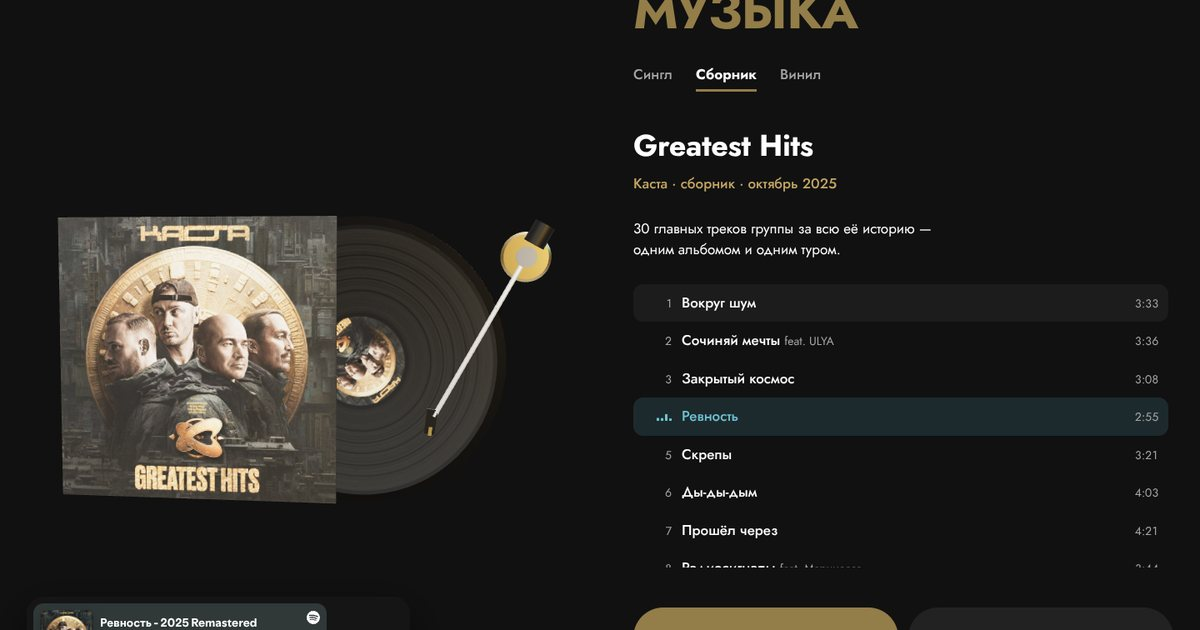
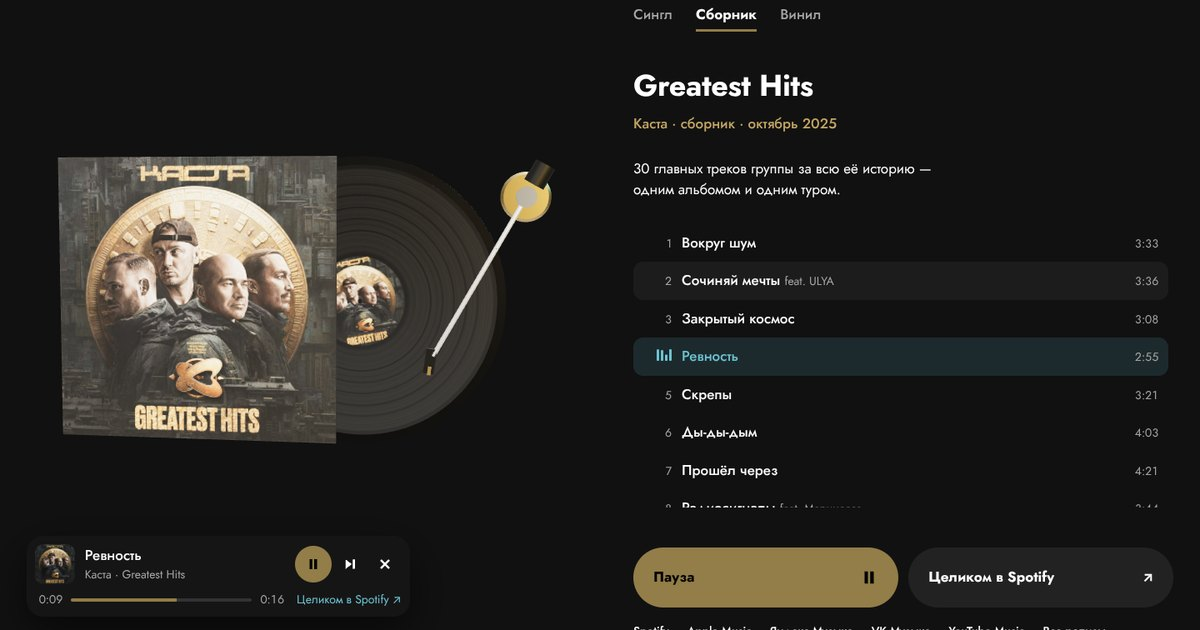
Kasta v11: our turntable plays, Spotify's player stays hidden underneath
The Spotify embed now sits invisible behind our own now-playing bar
(cover, track, pause, next, seek, 'Full track on Spotify' link). It
stays on screen at zero opacity, because Chrome freezes cross-origin
frames moved off screen. If the browser refuses to start sound from
outside the embed, the embed shows itself with a one-tap hint.

Claude-Session: https://claude.ai/code/session_01MbgX5tyqgxQHiJMMjEK7p4

diff --git a/concepts/kasta/v11/assets/js/site.js b/concepts/kasta/v11/assets/js/site.js
@@ -1,5 +1,5 @@
 /* Каста · концепт v11 — интерфейс и проигрыватель. 3D живёт в scenes.js.
-   Звук пластинок — официальный плеер Spotify (Embed IFrame API); в tracks.js только ID треков. */
+   Звук пластинок — плеер Spotify (Embed IFrame API), спрятанный за нашим проигрывателем; в tracks.js только ID треков. */
 (() => {
   const $ = (s, r = document) => r.querySelector(s);
   const $$ = (s, r = document) => [...r.querySelectorAll(s)];
@@ -211,10 +211,11 @@
     });
   });
 
-  /* ---------- the record player: the sound comes from the official Spotify player ---------- */
+  /* ---------- the record player: our turntable on top, Spotify's player underneath ---------- */
   // There are no audio files or audio links on this site: tracks.js holds only Spotify track IDs,
   // and the music streams inside Spotify's own embed (whole songs for people signed in to Spotify,
-  // previews for everyone else). Our turntable, tracklist and buttons drive it through the Embed IFrame API.
+  // previews for everyone else). The embed stays invisible; our turntable, tracklist and bar drive it
+  // through the Embed IFrame API. It shows itself only if the browser insists on a tap inside it.
   const DATA = window.__kastaTracks || [];
   const RKEYS = ['mama', 'greatest', 'nzr'];
   const relData = i => DATA.find(d => d.key === RKEYS[i]);
@@ -222,12 +223,14 @@
     ru: { put: 'Поставить пластинку', pause: 'Пауза', resume: 'Продолжить', again: 'Ещё раз', open: 'Открыть в Spotify',
           hero: 'Включить Greatest Hits', heroOn: 'Пауза', heroResume: 'Продолжить',
           vinyl: 'Поставить пластинку', vinylOn: 'Пауза или продолжить',
-          note: 'Звук играет официальный плеер Spotify: если вы вошли в Spotify, песни звучат целиком, если нет — фрагментами.',
+          note: 'Музыка идёт через Spotify: если вы вошли в Spotify в этом браузере, песни звучат целиком, если нет — короткими фрагментами.',
+          src: 'Spotify', srcFull: 'Целиком в Spotify', play: 'Играть', of: 'из', engine: 'Плеер Spotify',
           failed: 'Плеер Spotify не загрузился (его может блокировать расширение браузера). Кнопка откроет альбом в Spotify.' },
     en: { put: 'Put the record on', pause: 'Pause', resume: 'Resume', again: 'Play again', open: 'Open in Spotify',
           hero: 'Play Greatest Hits', heroOn: 'Pause', heroResume: 'Resume',
           vinyl: 'Put the record on', vinylOn: 'Pause or resume',
-          note: 'The sound comes from the official Spotify player: whole songs if you are signed in to Spotify, previews if not.',
+          note: 'The music comes through Spotify: whole songs if you are signed in to Spotify in this browser, short previews if not.',
+          src: 'Spotify', srcFull: 'Full track on Spotify', play: 'Play', of: 'of', engine: 'Spotify player',
           failed: 'The Spotify player did not load (a browser extension may block it). The button opens the album in Spotify.' },
   };
   const p = () => P[lang];
@@ -235,7 +238,15 @@
   const np = $('#np');
   let ctl = null, ctlP = null, spFailed = false, albumDone = false, npClosed = false;
   let pos = 0, dur = 0, posAt = 0, endedUri = '', watchdog = 0, wantPlay = 0, readyTimer = 0;
-  let expectUri = '', startedUri = '', tries = 0, checkTimer = 0;
+  let expectUri = '', heardUri = '', tries = 0, checkTimer = 0, isPreview = false, reveal = false, seeking = false;
+  let lastUri = '', lastPaused = true, lastAt = 0, playSentAt = 0;
+  const engine = $('.np-engine', np);
+  // the browser may refuse to start sound from outside the Spotify player (Safari can): then it shows itself for one tap
+  const setReveal = on => {
+    if (reveal === on) return;
+    reveal = on; engine.inert = !on;
+    np.classList.toggle('is-reveal', on);
+  };
 
   const loadSpotify = () => {
     if (ctlP) return ctlP;
@@ -247,8 +258,9 @@
           ctl = c;
           c.addListener('playback_update', onUpdate);
           // a freshly loaded track says "ready"; only then does play() stick, even after quick clicks
-          c.addListener('ready', () => { if (wantPlay) { wantPlay = 0; clearTimeout(readyTimer); c.play(); } });
-          c.addListener('playback_started', e => { startedUri = (e && e.data && e.data.playingURI) || startedUri; });
+          c.addListener('ready', () => { if (wantPlay) { wantPlay = 0; clearTimeout(readyTimer); c.play(); playSentAt = performance.now(); } });
+          const f = $('iframe', engine);
+          if (f) f.title = p().engine;
           resolve(c);
         });
       };
@@ -268,6 +280,9 @@
     const d = e.data || {};
     // late frames from the track we just left must not move the needle or end the album
     if (expectUri && d.playingURI && d.playingURI !== expectUri) return;
+    // Spotify says "started" even when the browser holds the sound back, so only a moving position counts as heard
+    if (d.playingURI) { lastUri = d.playingURI; lastPaused = !!d.isPaused; lastAt = performance.now(); }
+    if (d.playingURI && !d.isPaused && d.position > 0) { heardUri = d.playingURI; setReveal(false); }
     pos = (d.position || 0) / 1000; dur = (d.duration || 0) / 1000; posAt = performance.now();
     if (dur > 0) clearTimeout(watchdog);
     // the embed holds the last frame as "playing" when a track runs out: that is the end
@@ -275,9 +290,13 @@
       if (endedUri !== d.playingURI) { endedUri = d.playingURI; onEnded(); }
       return;
     }
+    // logged out, Spotify plays a short preview: the bar says so and points to the whole track
+    const tr = relData(A.r) && relData(A.r).tracks[A.k];
+    const pv = dur > 0 && !!tr && dur < tr.dur - 5;
     const was = A.playing;
     A.playing = !d.isPaused;
-    if (A.playing !== was) paintPlayer();
+    if (A.playing !== was || pv !== isPreview) { isPreview = pv; paintPlayer(); }
+    else paintTime();
     if (A.playing) startLevels();
   }
   function onEnded() {
@@ -292,7 +311,7 @@
     const d = relData(r);
     if (!d || !d.tracks[k]) return;
     if (spFailed) { window.open(d.url, '_blank', 'noopener'); return; }
-    A.r = r; A.k = k; albumDone = false; npClosed = false; endedUri = ''; pos = 0; dur = 0; posAt = performance.now();
+    A.r = r; A.k = k; albumDone = false; npClosed = false; endedUri = ''; pos = 0; dur = 0; posAt = performance.now(); playSentAt = 0;
     A.playing = true;                       // the needle drops while Spotify buffers
     paintPlayer(); startLevels();
     const uri = d.tracks[k].uri;
@@ -300,21 +319,25 @@
       wantPlay = 1;
       c.loadUri(uri);
       clearTimeout(readyTimer);
-      readyTimer = setTimeout(() => { if (wantPlay) { wantPlay = 0; c.play(); } }, 1500);
+      readyTimer = setTimeout(() => { if (wantPlay) { wantPlay = 0; c.play(); playSentAt = performance.now(); } }, 1500);
     };
-    // a load that lands while the previous track is still buffering can be dropped by the embed: try again
+    let polls = 0;
     const check = c => {
       clearTimeout(checkTimer);
       checkTimer = setTimeout(() => {
-        if (expectUri !== uri || startedUri === uri) return;
-        if (++tries > 3) { A.playing = false; paintPlayer(); return; }
-        load(c); check(c);
+        if (expectUri !== uri || heardUri === uri || ++polls > 6) return;
+        // we asked to play and Spotify answered "paused": the browser wants a tap inside its player, so show it
+        if (lastUri === uri && lastPaused && playSentAt && lastAt > playSentAt + 300) { setReveal(true); A.playing = false; paintPlayer(); return; }
+        // a load that lands while the previous track is still buffering can be dropped by the embed: send it again
+        if (lastUri !== uri && ++tries <= 3) load(c);
+        check(c);
       }, 3500);
     };
     const go = c => { expectUri = uri; tries = 0; load(c); check(c); };
     if (ctl) go(ctl); else loadSpotify().then(go).catch(() => {});
     clearTimeout(watchdog);
-    watchdog = setTimeout(() => { if (A.r === r && A.k === k && startedUri !== uri) { A.playing = false; paintPlayer(); } }, 18000);
+    // still silent: hand over Spotify's own controls rather than leave a dead button
+    watchdog = setTimeout(() => { if (A.r === r && A.k === k && heardUri !== uri) { setReveal(true); A.playing = false; paintPlayer(); } }, 18000);
   }
   const nextTrack = () => { if (A.r >= 0) playAt(A.r, (A.k + 1) % relData(A.r).tracks.length); };
   const toggleCurrent = () => {
@@ -327,6 +350,30 @@
   };
   const toggle = () => { if (A.r !== rel || A.r < 0) playAt(rel, 0); else toggleCurrent(); };
 
+  // the position slider in the bar: the needle's place in the track, and a way to move it
+  const seekEl = $('.js-np-seek'), posLbl = $('.js-np-pos'), durLbl = $('.js-np-dur');
+  const fmtT = sec => { const t = Math.max(0, Math.floor(sec)); return `${Math.floor(t / 60)}:${String(t % 60).padStart(2, '0')}`; };
+  const curTrack = () => (A.r >= 0 && relData(A.r) ? relData(A.r).tracks[A.k] : null);
+  function paintTime() {
+    const tr = curTrack();
+    // once we know Spotify plays previews here, wait for its real length instead of showing the album one
+    const D = dur || (tr && !isPreview ? tr.dur : 0);
+    const t = seeking ? +seekEl.value : Math.min(D, A.progress * D);
+    if (+seekEl.max !== D && D) seekEl.max = D;
+    if (!seeking) seekEl.value = t;
+    seekEl.style.setProperty('--p', (D ? (t / D) * 100 : 0).toFixed(2) + '%');
+    const a = fmtT(t), b = D ? fmtT(D) : '–:––';
+    if (posLbl.textContent !== a) { posLbl.textContent = a; seekEl.setAttribute('aria-valuetext', `${a} ${p().of} ${b}`); }
+    if (durLbl.textContent !== b) durLbl.textContent = b;
+  }
+  seekEl.addEventListener('input', () => { seeking = true; paintTime(); });
+  seekEl.addEventListener('change', () => {
+    const t = +seekEl.value;
+    seeking = false;
+    if (ctl && A.r >= 0) { ctl.seek(t); pos = t; posAt = performance.now(); A.progress = dur ? t / dur : 0; }
+    paintTime();
+  });
+
   // the turntable needs a smooth position between Spotify's once-a-second updates;
   // the sound itself is closed inside Spotify's player, so the logo simply breathes while music plays
   let lvRaf = 0;
@@ -336,6 +383,7 @@
     A.progress = dur ? Math.min(1, cur / dur) : 0;
     const target = A.playing && !reduced ? 0.3 + 0.35 * (0.5 + 0.5 * Math.sin(now / 1000 * Math.PI)) : 0;
     A.level += (target - A.level) * 0.05;
+    paintTime();
     if (A.playing || A.level > 0.01) lvRaf = requestAnimationFrame(levels); else lvRaf = 0;
   }
 
@@ -366,6 +414,8 @@
   const playBtn = $('.js-play'), playLbl = $('.js-play-label');
   const heroBtn = $('.js-hero-play'), heroLbl = $('.js-hero-play-label');
   const vinylBox = $('#vinyl'), note = $('.music-note');
+  const npCover = $('.js-np-cover'), npTitle = $('.js-np-title'), npAlbum = $('.js-np-album');
+  const npSrc = $('.js-np-src'), npToggle = $('.js-np-toggle');
   function paintPlayer() {
     const onHere = A.r === rel && A.r >= 0;
     const playingHere = onHere && A.playing;
@@ -389,9 +439,26 @@
       const top = curRow.offsetTop - trackList.offsetTop, h = curRow.offsetHeight;
       if (top < trackList.scrollTop || top + h > trackList.scrollTop + trackList.clientHeight) trackList.scrollTo({ top: top - h, behavior: reduced ? 'auto' : 'smooth' });
     }
-    // Spotify's own player rides along at the bottom of the screen while the music is on
-    np.classList.toggle('is-off', A.r < 0 || npClosed);
+    // our bar rides along at the bottom of the screen while the music is on
+    const off = A.r < 0 || npClosed;
+    np.classList.toggle('is-off', off);
+    np.inert = off;
     np.classList.toggle('is-playing', A.playing);
+    const tr = curTrack();
+    if (tr) {
+      const R = RELEASES[A.r];
+      if (!npCover.src.endsWith(R.img)) npCover.src = R.img;
+      npTitle.textContent = lang === 'en' ? tr.en : tr.ru;
+      if (tr.feat) { const sm = document.createElement('small'); sm.textContent = 'feat. ' + tr.feat; npTitle.append(' ', sm); }
+      npAlbum.textContent = `${lang === 'en' ? tr.by[1] : tr.by[0]} · ${R[lang].name}`;
+      npSrc.href = 'https://open.spotify.com/track/' + tr.uri.split(':').pop();
+      npSrc.firstChild.nodeValue = (isPreview ? p().srcFull : p().src) + ' ';
+      npSrc.classList.toggle('is-preview', isPreview);
+    }
+    npToggle.classList.toggle('is-on', A.playing);
+    npToggle.setAttribute('aria-pressed', String(A.playing));
+    npToggle.setAttribute('aria-label', A.playing ? p().pause : albumDone ? p().again : p().play);
+    paintTime();
     document.documentElement.classList.toggle('is-playing', A.playing);
   }
 
@@ -404,8 +471,9 @@
   });
   // over the music section the bar moves under the turntable, so it never covers the buttons
   new IntersectionObserver(([e]) => np.classList.toggle('is-left', e.isIntersecting), { threshold: 0.2 }).observe($('#music'));
+  npToggle.addEventListener('click', toggleCurrent);
   $('.js-np-next').addEventListener('click', nextTrack);
-  $('.js-np-close').addEventListener('click', () => { if (ctl) ctl.pause(); A.playing = false; npClosed = true; paintPlayer(); });
+  $('.js-np-close').addEventListener('click', () => { if (ctl) ctl.pause(); A.playing = false; npClosed = true; setReveal(false); paintPlayer(); });
   addEventListener('keydown', e => {
     if (e.key === ' ' && A.r >= 0 && document.activeElement === document.body) { e.preventDefault(); toggleCurrent(); }
   });

diff --git a/concepts/kasta/v11/assets/css/site.css b/concepts/kasta/v11/assets/css/site.css
@@ -614,27 +614,67 @@ ol, ul { list-style: none; }
 .js-play.is-on:hover { background: var(--gold-hi); }
 .music-note { margin-top: 14px; font-size: var(--t-xs); color: var(--muted); }
 
-/* now playing: Spotify's own player rides along at the bottom of the screen */
+/* now playing: our own bar; the sound underneath comes from Spotify's player */
 .np {
   position: fixed; z-index: 45; right: var(--m); bottom: max(16px, env(safe-area-inset-bottom));
   width: min(460px, calc(100vw - var(--m) * 2));
-  display: grid; grid-template-columns: 1fr auto auto; align-items: center; gap: 6px;
-  padding: 8px; border-radius: 20px; background: #151515; color: var(--ink);
+  display: grid; grid-template-columns: 48px minmax(0, 1fr) auto; align-items: center; column-gap: 12px; row-gap: 8px;
+  padding: 10px 10px 10px 10px; border-radius: 20px; background: #151515; color: var(--ink);
   box-shadow: 0 18px 50px rgba(0, 0, 0, .55); /* плеер плавает над страницей */
   transition: opacity .3s var(--ease-out), transform .35s var(--ease-out);
 }
-/* kept rendered while off, so the Spotify player can load before the first press */
-.np.is-off { opacity: 0; transform: translateY(140%); pointer-events: none; }
+/* off, it only fades: it has to stay on screen, or the browser freezes the Spotify player inside it */
+.np.is-off { opacity: 0; transform: translateY(16px); pointer-events: none; }
 @media (min-width: 901px) {
   .np { transition: opacity .3s var(--ease-out), transform .35s var(--ease-out), right .45s var(--ease-out); }
   .np.is-left { right: calc(100% - var(--m) - min(460px, calc(100vw - var(--m) * 2))); }
 }
-.np-sp { min-width: 0; height: 80px; border-radius: 12px; overflow: hidden; background: #222; }
-.np-sp iframe { display: block; width: 100%; height: 80px; border: 0; }
+.np-cover { width: 48px; height: 48px; border-radius: 10px; object-fit: cover; background: #222; }
+.np-info { min-width: 0; }
+.np-title, .np-sub { white-space: nowrap; overflow: hidden; text-overflow: ellipsis; }
+.np-title { font-weight: 500; }
+.np-title small { color: var(--muted); font-size: var(--t-xs); font-weight: 400; }
+.np-sub { font-size: var(--t-xs); color: var(--muted); }
+.np-btns { display: flex; align-items: center; gap: 2px; }
 .np-btn { width: 40px; height: 40px; border-radius: 50%; display: grid; place-items: center; transition: background-color .2s, transform .15s; }
 .np-btn:hover { background: #262626; }
 .np-btn:active { transform: scale(.92); }
 .np-btn .ic { width: 18px; height: 18px; }
+.np-main { width: 44px; height: 44px; background: var(--ink); color: #000; }
+.np-main:hover { background: var(--teal-hi); }
+.np-main.is-on { background: var(--gold); }
+.np-main.is-on:hover { background: var(--gold-hi); }
+.np-time { grid-column: 1 / -1; display: grid; grid-template-columns: auto minmax(0, 1fr) auto auto; align-items: center; gap: 10px; }
+.np-t { font-size: var(--t-xs); color: var(--muted); font-variant-numeric: tabular-nums; min-width: 4ch; }
+.np-t.js-np-pos { text-align: right; }
+.np-src { font-size: var(--t-xs); color: var(--muted); white-space: nowrap; transition: color .2s; }
+.np-src:hover { color: var(--teal-hi); }
+.np-src.is-preview { color: var(--teal-hi); }
+/* the position slider: gold up to where the needle is */
+.np-seek { --p: 0%; -webkit-appearance: none; appearance: none; width: 100%; height: 20px; background: none; cursor: pointer; margin: 0; }
+.np-seek::-webkit-slider-runnable-track { height: 4px; border-radius: 2px; background: linear-gradient(90deg, var(--gold) var(--p), #333 var(--p)); }
+.np-seek::-moz-range-track { height: 4px; border-radius: 2px; background: #333; }
+.np-seek::-moz-range-progress { height: 4px; border-radius: 2px; background: var(--gold); }
+.np-seek::-webkit-slider-thumb { -webkit-appearance: none; width: 12px; height: 12px; margin-top: -4px; border-radius: 50%; background: var(--ink); border: 0; transform: scale(0); transition: transform .15s var(--ease-out); }
+.np-seek::-moz-range-thumb { width: 12px; height: 12px; border-radius: 50%; background: var(--ink); border: 0; transform: scale(0); transition: transform .15s var(--ease-out); }
+.np-seek:hover::-webkit-slider-thumb, .np-seek:focus-visible::-webkit-slider-thumb { transform: scale(1); }
+.np-seek:hover::-moz-range-thumb, .np-seek:focus-visible::-moz-range-thumb { transform: scale(1); }
+@media (hover: none) {
+  .np-seek::-webkit-slider-thumb { transform: scale(1); }
+  .np-seek::-moz-range-thumb { transform: scale(1); }
+}
+.np-seek:focus-visible { outline: 2px solid var(--teal-hi); outline-offset: 2px; border-radius: 4px; }
+/* Spotify's player: invisible above the bar, shown only when the browser insists on a tap inside it */
+.np-engine {
+  position: absolute; left: 0; right: 0; bottom: calc(100% + 10px);
+  padding: 10px; border-radius: 20px; background: #151515; box-shadow: 0 18px 50px rgba(0, 0, 0, .55);
+  opacity: 0; pointer-events: none; transform: translateY(8px);
+  transition: opacity .3s var(--ease-out), transform .3s var(--ease-out);
+}
+.np.is-reveal .np-engine { opacity: 1; pointer-events: auto; transform: none; }
+.np-engine-hint { font-size: var(--t-xs); color: var(--muted); margin: 2px 4px 10px; }
+.np-sp { min-width: 0; height: 80px; border-radius: 12px; overflow: hidden; background: #222; }
+.np-sp iframe { display: block; width: 100%; height: 80px; border: 0; }
 
 @media (prefers-reduced-motion: reduce) {
   :root:not(.has-analyser) .is-playing .trk-eq i, :root:not(.has-analyser) .np.is-playing .np-eq i { animation: none; }
@@ -643,6 +683,8 @@ ol, ul { list-style: none; }
   .hero-acts { flex-direction: column; align-items: stretch; }
   .hero-acts .btn { width: 100%; }
   .tracks { max-height: 300px; }
-  .np { left: var(--m); right: var(--m); width: auto; gap: 2px; padding: 6px; }
+  .np { left: var(--m); right: var(--m); width: auto; column-gap: 10px; padding: 8px; grid-template-columns: 44px minmax(0, 1fr) auto; }
+  .np-cover { width: 44px; height: 44px; }
   .np-btn { width: 36px; height: 36px; }
+  .np-main { width: 40px; height: 40px; }
 }

diff --git a/concepts/kasta/v11/index.html b/concepts/kasta/v11/index.html
@@ -150,7 +150,7 @@
         <a href="https://music.youtube.com/channel/UC6dVEXOzTCaou9DXVYHOtDg" target="_blank" rel="noopener">YouTube Music</a>
         <a href="https://kasta.world/releases" data-en="All releases">Все релизы</a>
       </p>
-      <p class="music-note">Звук играет официальный плеер Spotify: если вы вошли в&nbsp;Spotify, песни звучат целиком, если нет — фрагментами.</p>
+      <p class="music-note">Музыка идёт через Spotify: если вы вошли в&nbsp;Spotify в&nbsp;этом браузере, песни звучат целиком, если нет — короткими фрагментами.</p>
     </div>
   </div>
 </section>
@@ -295,10 +295,28 @@
   </div>
 </footer>
 
-<div class="np is-off" id="np" role="region" aria-label="Сейчас играет" data-en-aria-label="Now playing">
-  <div class="np-sp"><div class="js-sp"></div></div>
-  <button class="np-btn js-np-next" type="button" aria-label="Следующий трек" data-en-aria-label="Next track"><svg class="ic" viewBox="0 0 24 24" aria-hidden="true"><path d="M5 4.5v15l10-7.5zM16.5 4.5H20v15h-3.5z"/></svg></button>
-  <button class="np-btn js-np-close" type="button" aria-label="Выключить музыку" data-en-aria-label="Stop the music"><svg class="ic" viewBox="0 0 24 24" aria-hidden="true"><path d="M6.4 4.3 12 9.9l5.6-5.6 2.1 2.1-5.6 5.6 5.6 5.6-2.1 2.1-5.6-5.6-5.6 5.6-2.1-2.1 5.6-5.6-5.6-5.6z"/></svg></button>
+<div class="np is-off" id="np" role="region" aria-label="Сейчас играет" data-en-aria-label="Now playing" inert>
+  <!-- the sound: Spotify's player, kept invisible behind our own controls; it shows itself only if the browser wants a tap inside it -->
+  <div class="np-engine" inert>
+    <p class="np-engine-hint" data-en="The browser did not let the music start by itself. Press ▶ in the Spotify player once, and the turntable takes over again.">Браузер не дал музыке включиться самой. Нажмите&nbsp;▶ в&nbsp;плеере Spotify один раз, дальше всё снова через пластинку.</p>
+    <div class="np-sp"><div class="js-sp"></div></div>
+  </div>
+  <img class="np-cover js-np-cover" src="assets/img/greatest-sq.jpg" alt="" width="48" height="48">
+  <div class="np-info">
+    <p class="np-title js-np-title"></p>
+    <p class="np-sub js-np-album"></p>
+  </div>
+  <div class="np-btns">
+    <button class="np-btn np-main js-np-toggle" type="button" aria-label="Пауза" aria-pressed="false"><svg class="ic ic-play" viewBox="0 0 24 24" aria-hidden="true"><path d="M7 4.5v15l13-7.5z"/></svg><svg class="ic ic-pause" viewBox="0 0 24 24" aria-hidden="true"><path d="M6 4h4.5v16H6zM13.5 4H18v16h-4.5z"/></svg></button>
+    <button class="np-btn js-np-next" type="button" aria-label="Следующий трек" data-en-aria-label="Next track"><svg class="ic" viewBox="0 0 24 24" aria-hidden="true"><path d="M5 4.5v15l10-7.5zM16.5 4.5H20v15h-3.5z"/></svg></button>
+    <button class="np-btn js-np-close" type="button" aria-label="Выключить музыку" data-en-aria-label="Stop the music"><svg class="ic" viewBox="0 0 24 24" aria-hidden="true"><path d="M6.4 4.3 12 9.9l5.6-5.6 2.1 2.1-5.6 5.6 5.6 5.6-2.1 2.1-5.6-5.6-5.6 5.6-2.1-2.1 5.6-5.6-5.6-5.6z"/></svg></button>
+  </div>
+  <div class="np-time">
+    <span class="np-t js-np-pos">0:00</span>
+    <input class="np-seek js-np-seek" type="range" min="0" max="30" step="0.5" value="0" aria-label="Место в треке" data-en-aria-label="Position in the track">
+    <span class="np-t js-np-dur">0:00</span>
+    <a class="np-src js-np-src" href="https://open.spotify.com/artist/5I37oVgAnT7OGiqKJSMVRH" target="_blank" rel="noopener">Spotify <span aria-hidden="true">↗</span></a>
+  </div>
 </div>
 
 <dialog class="player" id="player" aria-label="Видео" data-en-aria-label="Video">

diff --git a/README.md b/README.md
@@ -22,7 +22,7 @@
 | `concepts/kasta/v8/` | Восьмая версия для «Касты»: сетка и шрифты первой версии, вайб 1999–2005. Первый экран как эфир музыкального канала (значок «В эфире», часы, бегущая строка новостей) и граффити поверх названия; новинки в коробках CD, диск выезжает при наведении; классика в окне плеера нулевых с эквалайзером; подписи клипов как на MTV; счётчик дней «в эфире с 1999 года» в подвале. Без фото, обложек и логотипа группы. `noindex`, плашка «Концепт» | RU · EN |
 | `concepts/kasta/v9/` | Девятая версия для «Касты», в эстетике их нынешнего kasta.world: чёрный фон, белый широкий шрифт (Unbounded), их бирюзовый и бронзовый, геометрический Jost. Первый экран — кадры из их клипов (превью YouTube), сменяются сами, с подписью и кнопкой «Смотреть клип»; дальше сетка первой версии: тур, музыка, большой клип и список рядом, история, новости, букинг. `noindex`, плашка «Концепт» | RU · EN |
 | `concepts/kasta/v10/` | Десятая версия для «Касты», в эстетике нынешнего kasta.world: чёрный фон, их золото и бирюза, ч/б фото, красный крест кампании «Этого больше не будет», Jost вместо их платного Geometria. Первый экран — их логотип, выдавленный в золотой 3D-монумент (three.js): буквы поднимаются по очереди, логотип поворачивается за курсором, эмблема крутится как монета; на телефоне эмблема стоит над словом. Тур на 3D-глобусе с маршрутом и отсчётом дней (нажатие на дату поворачивает глобус к городу), бегущая строка городов, 3D-винил с настоящими обложками (пластинка выезжает из конверта), клипы — названия проезжают через кадр, новости, ч/б фото BRIMBACK × KASTA, букинг. Фото, обложки и логотип взяты с kasta.world. `noindex`, плашка «Концепт» | RU · EN |
-| `concepts/kasta/v11/` | Одиннадцатая версия для «Касты»: v10 один в один, но пластинки играют. Выбираешь вкладку «Сингл», «Сборник» или «Винил» — пластинка выезжает из конверта на диск проигрывателя, опускается тонарм, и играет песня с этого альбома. Звук идёт через официальный плеер Spotify (Embed IFrame API): в коде сайта нет ни одного аудиофайла и ни одной ссылки на аудио, только ID треков; кто вошёл в Spotify, слышит песни целиком, остальные — фрагменты. Треклисты всех 46 треков, автопереход к следующему, иголка за время трека ползёт от края к центру, пластинка крутится на 33⅓ оборота. Кнопка «Включить Greatest Hits» на первом экране, золотой 3D-логотип «дышит», пока играет музыка; плеер Spotify едет плашкой внизу экрана. `noindex`, плашка «Концепт» | RU · EN |
+| `concepts/kasta/v11/` | Одиннадцатая версия для «Касты»: v10 один в один, но пластинки играют. Выбираешь вкладку «Сингл», «Сборник» или «Винил» — пластинка выезжает из конверта на диск проигрывателя, опускается тонарм, и играет песня с этого альбома. Играет всё через наш проигрыватель, а звук внутри — плеер Spotify (Embed IFrame API), невидимый под нашей плашкой: в коде сайта нет ни одного аудиофайла и ни одной ссылки на аудио, только ID треков; кто вошёл в Spotify, слышит песни целиком, остальные — фрагменты. Если браузер не даёт включить звук без нажатия внутри Spotify (так бывает в Safari), плеер Spotify показывается над плашкой с подсказкой. Треклисты всех 46 треков, автопереход к следующему, иголка за время трека ползёт от края к центру, пластинка крутится на 33⅓ оборота. Кнопка «Включить Greatest Hits» на первом экране, золотой 3D-логотип «дышит», пока играет музыка; внизу экрана наша плашка: обложка, трек, пауза, следующий, перемотка и ссылка «Целиком в Spotify». `noindex`, плашка «Концепт» | RU · EN |
 | `plano/` | Школьный проект: бизнес-план Orla (Informática de Gestão, módulo 1) — 8 пунктов задания, графики выручки и остатка, органиграмма, 3D-береговая линия в первом экране (three.js, точки). `noindex`, не связан с сайтом студии | PT |
 | `assets/` | Скриншоты демо для экрана телефона в портфолио, `og.jpg` — картинка для превью ссылки | |
 
